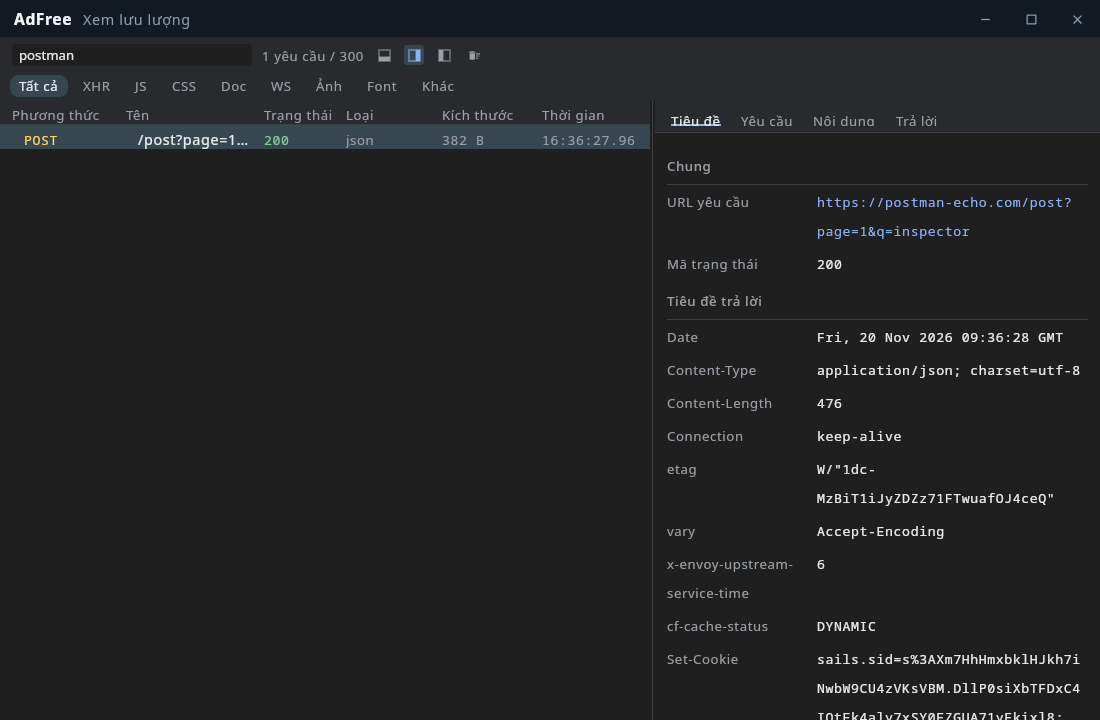
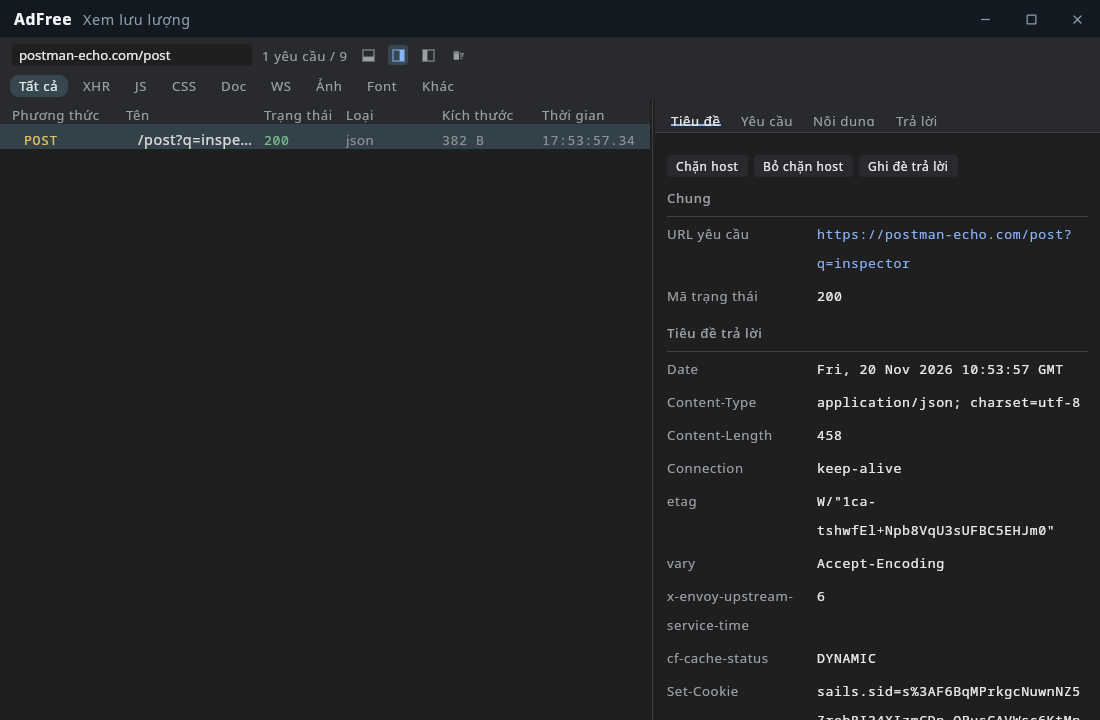
feat(site): four captures of the inspector, one for each thing it does
The section showed a list and a stream. It now shows the bodies laid out
and the replace dialog, including the preview of the answer that will go
out — the two claims a reader cannot check from a screenshot of a list.

diff --git a/src/content/vi.ts b/src/content/vi.ts
@@ -230,15 +230,23 @@ export const vi: Copy = {
       },
     ],
     how: 'Mở từ menu khay, hoặc từ hai nút dưới công tắc ở Trang chủ.',
-    caption: 'Chụp từ bản Linux đã phát hành: danh sách lọc còn một yêu cầu, và một luồng sự kiện máy chủ được đọc từng sự kiện.',
+    caption: 'Chụp từ bản Linux đã phát hành: danh sách, một nội dung được dàn trang, một luồng đọc từng sự kiện, và câu trả lời mà một bản ghi đè sẽ gửi đi.',
     shots: [
       {
         src: '/shots/inspector-list.png',
-        alt: 'Trình xem yêu cầu AdFree: một yêu cầu trong danh sách, kèm URL, trạng thái và tiêu đề trả lời',
+        alt: 'Trình xem yêu cầu AdFree: một yêu cầu trong danh sách, kèm URL, trạng thái, tiêu đề trả lời và ba nút chặn, bỏ chặn, ghi đè phía trên',
+      },
+      {
+        src: '/shots/inspector-body.png',
+        alt: 'Trình xem yêu cầu AdFree: một trả lời JSON được dàn trang và tô màu, phía trên là các chip đẹp, nguyên bản, nhị phân',
       },
       {
         src: '/shots/inspector-stream.png',
         alt: 'Trình xem yêu cầu AdFree: luồng sự kiện máy chủ, mỗi sự kiện kèm thời gian tới và kích thước',
+      },
+      {
+        src: '/shots/inspector-override.png',
+        alt: 'Trình xem yêu cầu AdFree: hộp thoại ghi đè, hiện trạng thái, tiêu đề và nội dung của câu trả lời sẽ gửi đi',
       },
     ],
   },

diff --git a/src/content/ja.ts b/src/content/ja.ts
@@ -229,15 +229,23 @@ export const ja: Copy = {
       },
     ],
     how: 'トレイメニュー、またはホームのスイッチの下にあるボタンから開きます。',
-    caption: 'リリースした Linux ビルドから撮影: 1件に絞ったリストと、イベント単位で読まれるサーバー送信ストリーム。',
+    caption: 'リリースした Linux ビルドから撮影: リスト、整形された本文、イベント単位で読むストリーム、差し替えが送る応答。',
     shots: [
       {
         src: '/shots/inspector-list.png',
-        alt: 'AdFree リクエストインスペクタ: リストに1件、URL・ステータス・応答ヘッダ付き',
+        alt: 'AdFree リクエストインスペクタ: リストの1件と、URL・ステータス・応答ヘッダ、その上にブロック・解除・差し替えのボタン',
+      },
+      {
+        src: '/shots/inspector-body.png',
+        alt: 'AdFree リクエストインスペクタ: 整形され色分けされた JSON の応答と、その上の整形・生・バイトのチップ',
       },
       {
         src: '/shots/inspector-stream.png',
         alt: 'AdFree リクエストインスペクタ: サーバー送信イベントのストリーム、各イベントに到着時刻とサイズ',
+      },
+      {
+        src: '/shots/inspector-override.png',
+        alt: 'AdFree リクエストインスペクタ: 差し替えダイアログ。送信される応答のステータス・ヘッダ・本文を表示',
       },
     ],
   },

diff --git a/src/content/en.ts b/src/content/en.ts
@@ -230,15 +230,23 @@ export const en: Copy = {
       },
     ],
     how: 'Open it from the tray menu, or from the two buttons under the switch on Home.',
-    caption: 'Captured from the released Linux build: the list filtered to one request, and a server-sent stream read event by event.',
+    caption: 'Captured from the released Linux build: the list, a body laid out, a stream read event by event, and the answer a replacement will send.',
     shots: [
       {
         src: '/shots/inspector-list.png',
-        alt: 'AdFree request inspector: one request in the list, with its URL, status and response headers',
+        alt: 'AdFree request inspector: one request in the list, with its URL, status and response headers, and the block, unblock and replace buttons above them',
+      },
+      {
+        src: '/shots/inspector-body.png',
+        alt: 'AdFree request inspector: a JSON response laid out and highlighted, with the pretty, raw and byte chips above it',
       },
       {
         src: '/shots/inspector-stream.png',
         alt: 'AdFree request inspector: a server-sent event stream, each event with its arrival time and size',
+      },
+      {
+        src: '/shots/inspector-override.png',
+        alt: 'AdFree request inspector: the replace dialog, with the status, headers and body of the answer that will be sent',
       },
     ],
   },

diff --git a/src/components/InspectorSection.vue b/src/components/InspectorSection.vue
@@ -19,10 +19,23 @@ import WindowFrame from './WindowFrame.vue'
         </p>
       </div>
 
+      <!-- The list is the first thing the window shows, so it is the first
+           thing here; the body and the stream sit side by side because they are
+           two answers to the same question — what came back. -->
       <div class="mx-auto mt-12 max-w-4xl">
         <WindowFrame
           :src="copy.inspector.shots[0]!.src"
           :alt="copy.inspector.shots[0]!.alt"
+          :title="copy.inspector.kicker"
+        />
+      </div>
+
+      <div class="mx-auto mt-6 grid max-w-5xl gap-6 md:grid-cols-2">
+        <WindowFrame
+          v-for="shot in copy.inspector.shots.slice(1, 3)"
+          :key="shot.src"
+          :src="shot.src"
+          :alt="shot.alt"
           :title="copy.inspector.kicker"
         />
       </div>
@@ -45,8 +58,8 @@ import WindowFrame from './WindowFrame.vue'
 
       <div class="mx-auto mt-10 max-w-4xl">
         <WindowFrame
-          :src="copy.inspector.shots[1]!.src"
-          :alt="copy.inspector.shots[1]!.alt"
+          :src="copy.inspector.shots[3]!.src"
+          :alt="copy.inspector.shots[3]!.alt"
           :title="copy.inspector.kicker"
         />
         <p class="mt-4 text-xs/5 text-dimmed">{{ copy.inspector.caption }}</p>

diff --git a/src/content/zh.ts b/src/content/zh.ts
@@ -225,15 +225,23 @@ export const zh: Copy = {
       },
     ],
     how: '从托盘菜单，或首页开关下方的两个按钮打开。',
-    caption: '截取自已发布的 Linux 构建: 过滤到一条请求的列表，以及逐事件读取的服务器推送流。',
+    caption: '截取自已发布的 Linux 构建: 列表、排版后的正文、逐事件读取的流，以及替换将要发出的应答。',
     shots: [
       {
         src: '/shots/inspector-list.png',
-        alt: 'AdFree 请求检查器: 列表中的一条请求，带 URL、状态和响应头',
+        alt: 'AdFree 请求检查器: 列表中的一条请求，带 URL、状态、响应头，上方是屏蔽、解除、替换按钮',
+      },
+      {
+        src: '/shots/inspector-body.png',
+        alt: 'AdFree 请求检查器: 排版并高亮的 JSON 响应，上方是排版、原始、字节三个按钮',
       },
       {
         src: '/shots/inspector-stream.png',
         alt: 'AdFree 请求检查器: 服务器推送事件流，每个事件带到达时间和大小',
+      },
+      {
+        src: '/shots/inspector-override.png',
+        alt: 'AdFree 请求检查器: 替换对话框，显示将要发出的应答的状态、头和正文',
       },
     ],
   },
